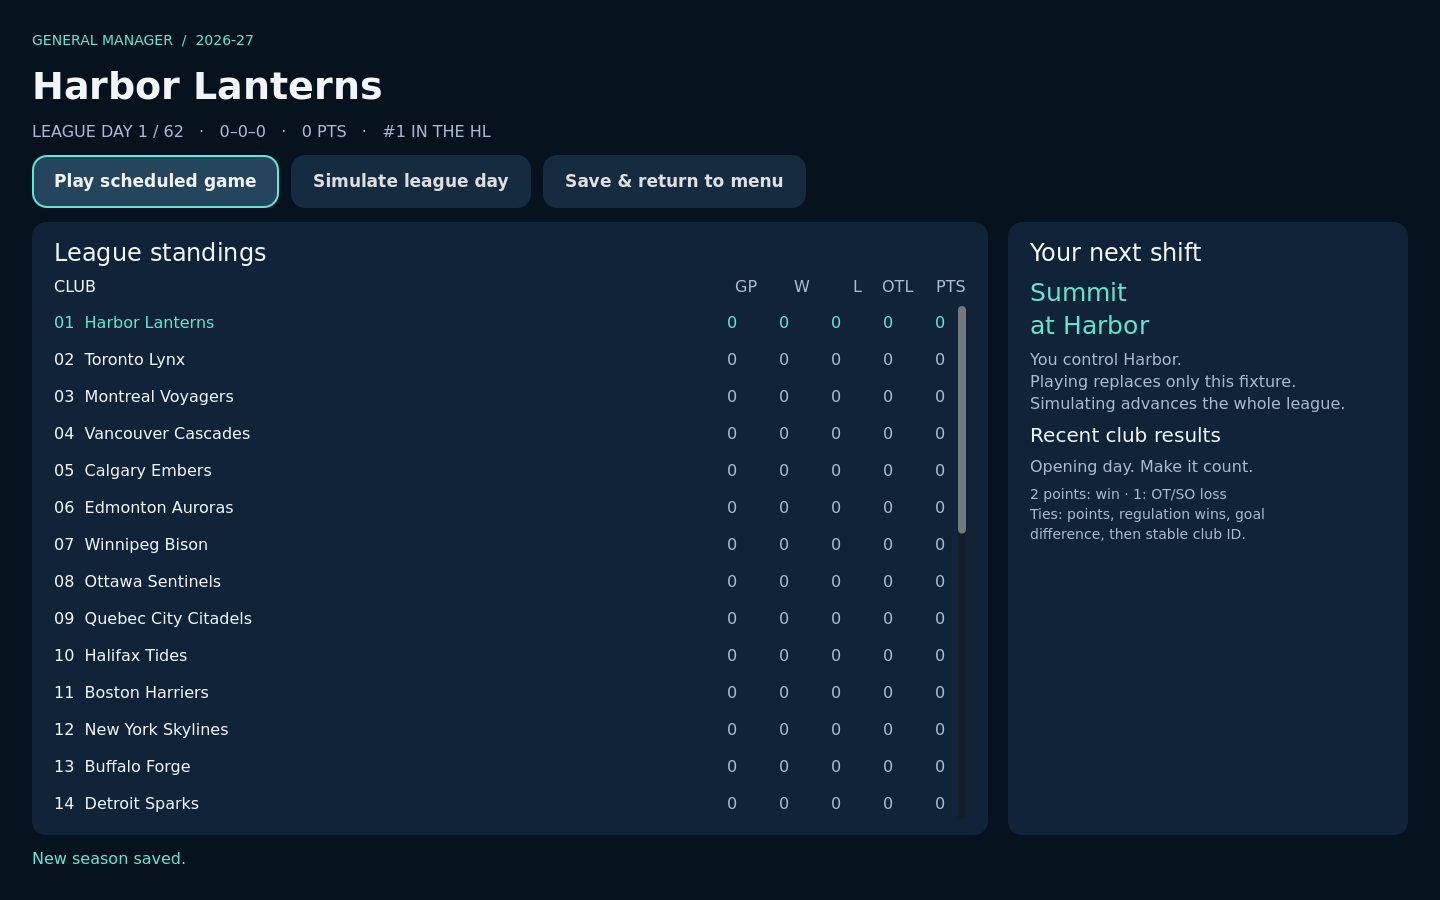
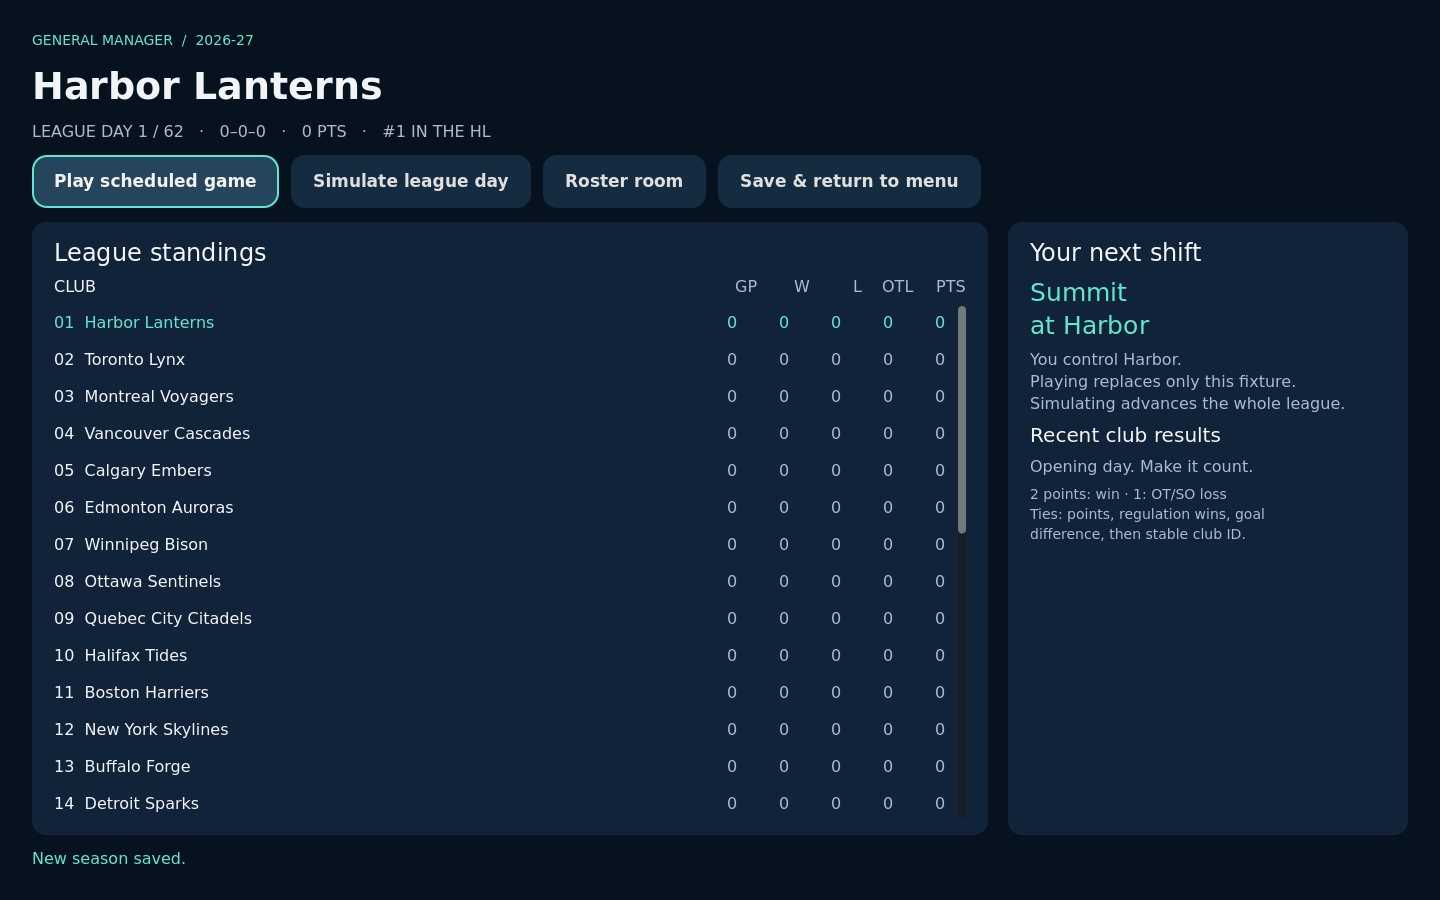
Add GM roster room, organization filters and draft candidate browsing

Changed region(s): [[0.4062, 0.1556, 0.6875, 0.2489]]

diff --git a/docs/COORDINATION.md b/docs/COORDINATION.md
@@ -1,10 +1,10 @@
 # Production coordination
 
-Updated 2026-10-20 14:02 America/Toronto. Assignments are not completion evidence.
+Updated 2026-10-20. Assignments are not completion evidence.
 
 | Owner | Active task | Branch | Affected systems | Dependencies | Integration | Last verified build |
 |---|---|---|---|---|---|---|
-| Codex | Interface polish, net-targeted controller shots, playable OT/shootout | codex/game-modes | HUD/fonts, match/Practice/input, match state, tests and captures | Native Godot 4.6.3 verified; EA lookup blocked pending network settings | Tested and locally integrated; PR #2 pending review; no merge/release | 21 Python tests; 23 engine suites; OT/SO 75 checks; shots 132; navigation 47; genuine renders |
+| Codex | Persistent HL GM season, independent preferences, roster/prospect browser | codex/game-modes | Mode scenes, save store, season/snapshot model, match handoff/results, tests/captures | Godot 4.6.3; native validated world; Mesa softpipe capture fallback | Functional single-season alpha; tested and locally integrated; PR #2 review pending | GM_SEASON.md and verification/gm-season-20261020.json; no release claim |
 | Claude/separate presentation agent (owner-reported) | Graphics/lighting/models/gear/animation | prototype/skating-puck-lab observed; confirm ownership before edits | presentation assets, skater visuals, arena lighting, HUD styling | Shared scene and match interfaces | Prototype observed at 28fb10b; runtime not inspected here | Unknown in this session; do not infer from assignment |
 
 ## Coordination protocol
@@ -118,3 +118,11 @@ Mesa softpipe after default llvmpipe SIGILL; arena graphics are not validated by
 these captures. No PR merge/release/public availability change.
 Next: physical-controller/human feel, save latency and cross-platform durability,
 then richer calendar/playoffs/transactions/draft/development/multi-season rules.
+
+
+2026-10-20 continuation — Added saved-world Roster room: all 643 clubs/14,745
+players, organization affiliation/rights filter, 3,256 age/rights-eligible draft
+candidates, league/team/name/position search, paginated rows and full player cards.
+Youth data remains browse-only; no drafting/development/transaction claims.
+Native browser checks: 3,274, including byte-equivalent season preservation,
+page/focus recovery and real dashboard round trips. Captures and scope: GM_SEASON.md.

diff --git a/docs/GM_SEASON.md b/docs/GM_SEASON.md
@@ -86,3 +86,27 @@ rendered these mode pages successfully using OpenGL compatibility; no 3D render 
 hardware performance claim is made from this run. Reproduce with `DISPLAY=:9
 GALLIUM_DRIVER=softpipe ... godot --rendering-method gl_compatibility --audio-driver
 Dummy --script tools/capture_gm.gd`, plus the writable XDG paths in setup guidance.
+
+
+## Roster room and draft candidate browsing
+
+**Roster room** opens from the season dashboard. Browse all 33 leagues and 643
+clubs in the saved world, including youth data, or filter **My organization** to
+the managed club, explicitly affiliated clubs and players with its HL rights.
+**Draft candidates** uses the snapshot's existing age/rights eligibility query
+on its stated draft date (2027-09-15), yielding 3,256 players in this initial world.
+The AGE column uses the world as-of date (2026-09-15); draft eligibility uses the
+separately displayed future date. Search names, clubs and positions; lists page
+25 players at a time. Player cards show position, age/birthday, handedness, size,
+nationality, rights, estimated potential, every position-specific rating and
+explicit league development routes. Goalies have no shot-accuracy value in the
+skater SHT column; their goalie skills appear on their card.
+
+All browsing is read-only. It cannot advance the season, assign/trade/develop
+players or execute draft picks. Ratings/potential remain generated uncalibrated
+estimates, not verified scouting accuracy or guaranteed progression. Youth remains
+excluded from Play Now. Snapshot identity/state preservation, filtering, pagination,
+selection/focus and actual dashboard navigation are covered by 3,274 native checks.
+
+- [Club roster and player card](screenshots/gm-rosters-20261020.png)
+- [Eligible draft candidates](screenshots/gm-prospects-20261020.png)

diff --git a/docs/ALPHA_FEATURE_AUDIT.md b/docs/ALPHA_FEATURE_AUDIT.md
@@ -117,3 +117,11 @@ Mesa softpipe after default llvmpipe SIGILL; arena graphics are not validated by
 these captures. No PR merge/release/public availability change.
 Next: physical-controller/human feel, save latency and cross-platform durability,
 then richer calendar/playoffs/transactions/draft/development/multi-season rules.
+
+
+2026-10-20 continuation — Added saved-world Roster room: all 643 clubs/14,745
+players, organization affiliation/rights filter, 3,256 age/rights-eligible draft
+candidates, league/team/name/position search, paginated rows and full player cards.
+Youth data remains browse-only; no drafting/development/transaction claims.
+Native browser checks: 3,274, including byte-equivalent season preservation,
+page/focus recovery and real dashboard round trips. Captures and scope: GM_SEASON.md.

diff --git a/docs/GAME_MODES_BACKLOG.md b/docs/GAME_MODES_BACKLOG.md
@@ -123,3 +123,11 @@ Mesa softpipe after default llvmpipe SIGILL; arena graphics are not validated by
 these captures. No PR merge/release/public availability change.
 Next: physical-controller/human feel, save latency and cross-platform durability,
 then richer calendar/playoffs/transactions/draft/development/multi-season rules.
+
+
+2026-10-20 continuation — Added saved-world Roster room: all 643 clubs/14,745
+players, organization affiliation/rights filter, 3,256 age/rights-eligible draft
+candidates, league/team/name/position search, paginated rows and full player cards.
+Youth data remains browse-only; no drafting/development/transaction claims.
+Native browser checks: 3,274, including byte-equivalent season preservation,
+page/focus recovery and real dashboard round trips. Captures and scope: GM_SEASON.md.
